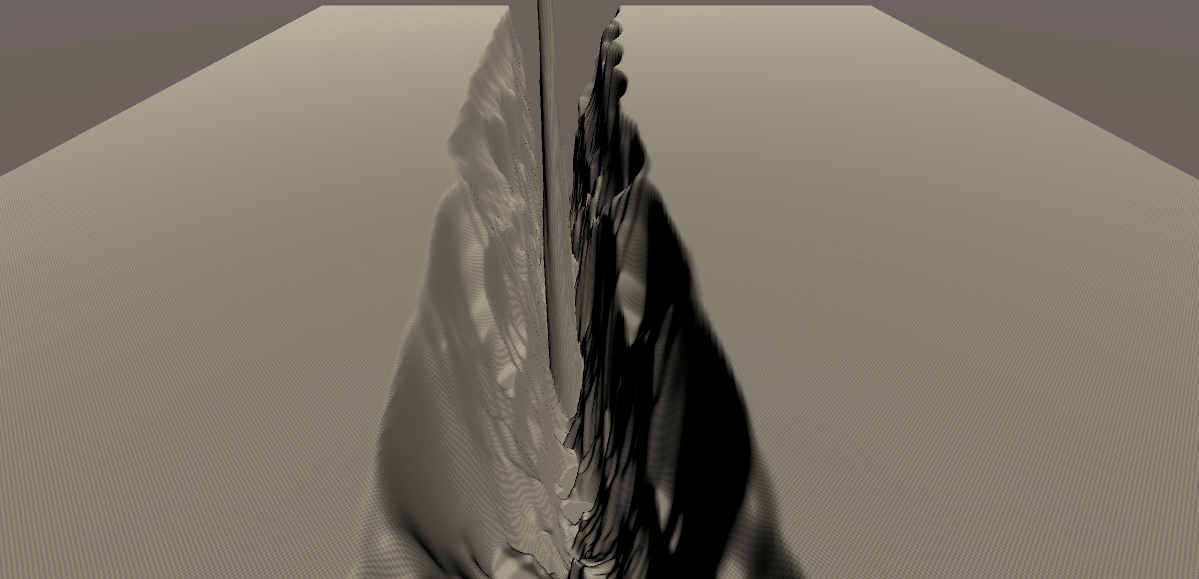
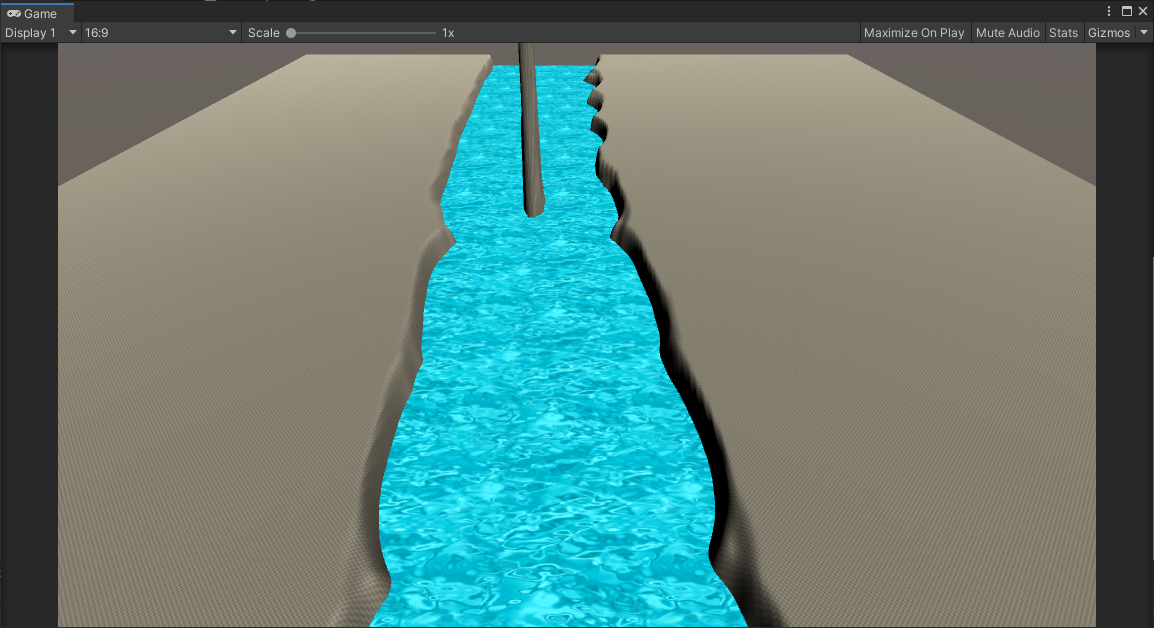
川

diff --git a/README.md b/README.md
@@ -7,7 +7,7 @@
 
 # 拡張した点
 
--
+-川
 -
 -
 -
